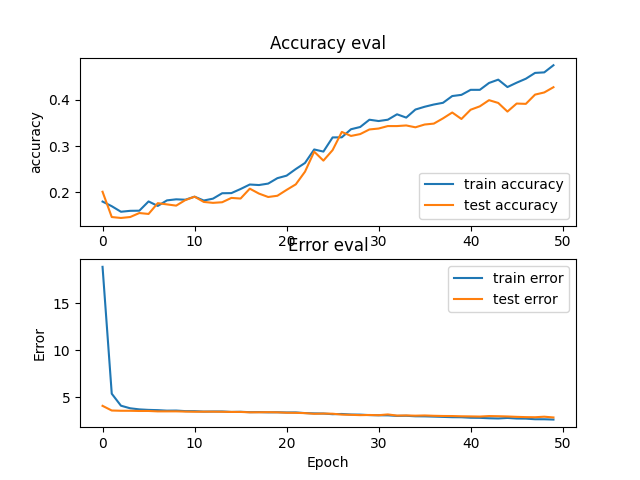
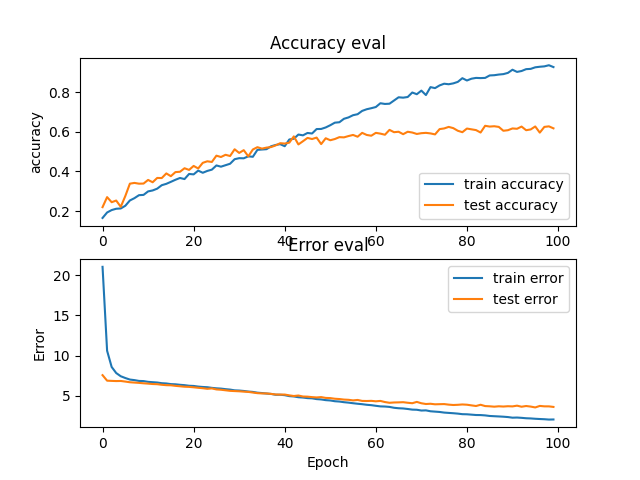
Added More Layers to Neural Net Model

diff --git a/genre_classifier.py b/genre_classifier.py
@@ -59,18 +59,20 @@ if __name__ == '__main__':
 
     model = keras.Sequential([
         keras.layers.Flatten(input_shape=(inputs.shape[1], inputs.shape[2])),
+        keras.layers.Dense(2048, activation='relu', kernel_regularizer=keras.regularizers.l2(0.001)),
+        keras.layers.Dropout(0.2),
         keras.layers.Dense(1024, activation='relu', kernel_regularizer=keras.regularizers.l2(0.001)),
-        keras.layers.Dropout(0.1),
+        keras.layers.Dropout(0.2),
         keras.layers.Dense(512, activation='relu', kernel_regularizer=keras.regularizers.l2(0.001)),
-        keras.layers.Dropout(0.1),
+        keras.layers.Dropout(0.2),
         keras.layers.Dense(256, activation='relu', kernel_regularizer=keras.regularizers.l2(0.001)),
-        keras.layers.Dropout(0.1),
+        keras.layers.Dropout(0.2),
         keras.layers.Dense(64, activation='relu', kernel_regularizer=keras.regularizers.l2(0.001)),
-        keras.layers.Dropout(0.1),
+        keras.layers.Dropout(0.2),
         keras.layers.Dense(10, activation='softmax'),
     ])
 
-    optimizer = keras.optimizers.Adam(learning_rate=0.0001)
+    optimizer = keras.optimizers.Adam(learning_rate=0.00006)
     model.compile(optimizer=optimizer, loss='sparse_categorical_crossentropy', metrics=['accuracy'])
     model.summary()
 

diff --git a/data.py b/data.py
@@ -11,7 +11,7 @@ SAMPLE_RATE = 22050
 DURATION = 30
 SAMPLES_PER_TRACK = SAMPLE_RATE * DURATION
 
-def save_mfcc(dataset_path, json_path, n_mfcc=13, n_fft=2048, hop_length=512, num_segments=7) :
+def save_mfcc(dataset_path, json_path, n_mfcc=13, n_fft=2048, hop_length=512, num_segments=6) :
     # make dictionary to store data
     song_data = {
         "mapping": [],
